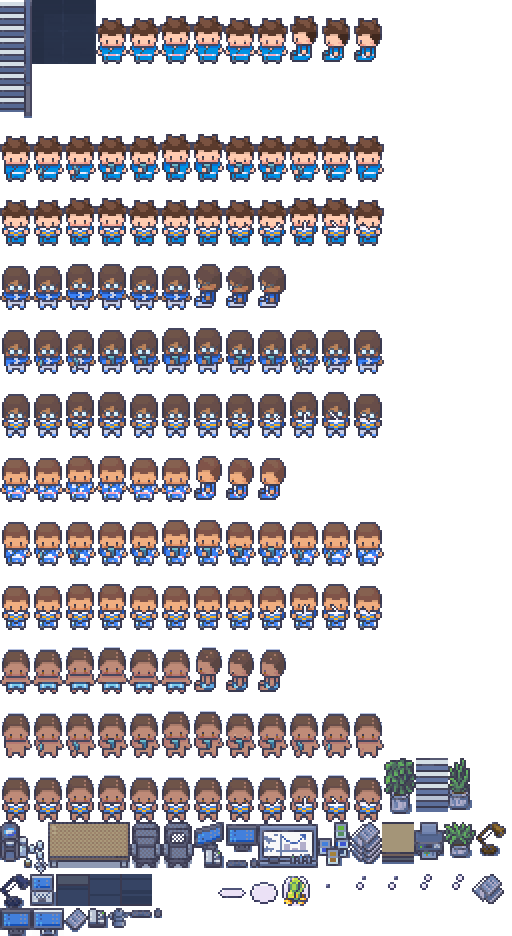
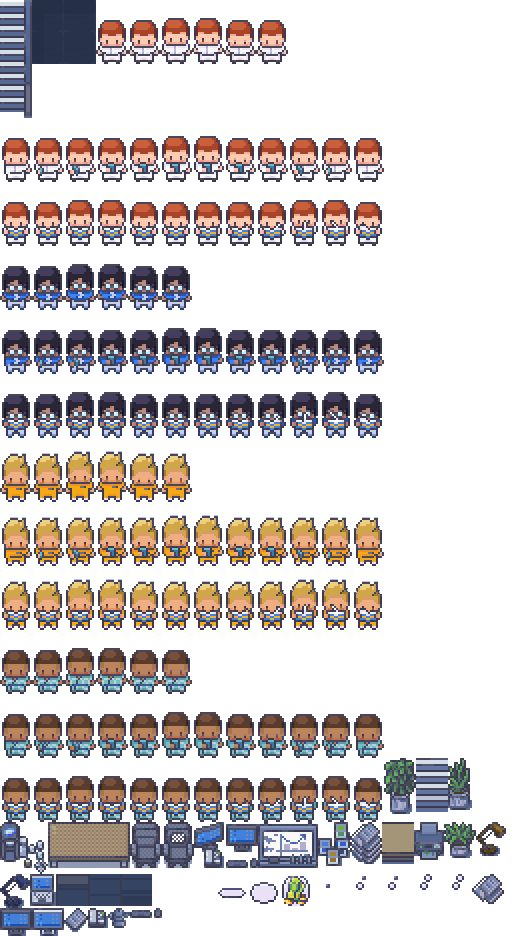
Office: four people who read as four, each at their own job
The hero row showed four near-identical heads: the same brown hair, the
same head-down sitting frames. LimeZu's sitting row only has side views,
so the person facing the camera now uses the idle frames behind the desk,
and each of the four is in the pose of their job: Ара typing at the
laptop, Веда reading the report, Эхо with the phone at his ear, Нова with
hers in her hand. Hair and outfit layers are tinted by luminance rank so
any generator style takes any colour: auburn long hair and a white blouse,
black up-do with glasses and a blue cardigan, blond crop with an orange
hoodie and a headset, brown bob with a teal top; four skin tones. The
desks carry the job's things.

Claude-Session: https://claude.ai/code/session_01Lyyr9uJyvKFspNxgDXS1Dv

diff --git a/src/office/scenes.js b/src/office/scenes.js
@@ -16,11 +16,13 @@ export const CHAPTER_HOUR = { ara: 2.25, veda: 8.5, eho: 12.1, nova: 15.5 };
 // Four weeks of the sample report, the same bars the page shows in HTML.
 const REPORT = [0.5, 0.62, 0.48, 0.9];
 
+// Ара types (idle breathing behind the laptop), Веда reads the report, Эхо
+// has the phone at his ear, Нова has hers in her hand.
 const KIT = {
-  ara: { anim: "sit", fps: 3 },
-  veda: { anim: "sit", fps: 3 },
+  ara: { anim: "idle", fps: 4 },
+  veda: { anim: "read", fps: 5 },
   eho: { anim: "phone", fps: 8, loop: [4, 9] },
-  nova: { anim: "sit", fps: 3 },
+  nova: { anim: "phone", fps: 2, loop: [2, 3] },
 };
 
 function frameIndex(kit, t, seed) {
@@ -38,8 +40,8 @@ function station(ctx, img, o) {
   const deskW = pieces.reduce((w, p) => w + SPRITES[p].w, 0);
   const cx = x + (o.personX ?? Math.floor((deskW - 32) / 2));
   // head and shoulders clear the desk; the desk hides the rest
-  const cy = y - 44;
-  sprite(ctx, img, "CHAIR", cx, cy + 20);
+  const cy = y - 58;
+  sprite(ctx, img, "CHAIR", cx, cy + 26);
   charFrame(ctx, img, id, kit.anim, frameIndex(kit, t, seed), cx, cy);
   let px = x;
   for (const p of pieces) {
@@ -87,9 +89,9 @@ export function drawHero(ctx, img, { W, H, t, progress }) {
     const x = ox + 4 + i * 60;
     const props = {
       ara: [["DESK_PHONE", 0, 6], ["LAPTOP", 24, 0]],
-      veda: [["MONITOR", 18, 2], ["PAPER_STACK", -2, 6]],
+      veda: [["PAPER_STACK", 26, 4], ["PAPERS", 2, 10], ["MUG", 40, 18]],
       eho: [["MONITOR_KB", 20, 2], ["DESK_PHONE", -2, 8]],
-      nova: [["LAPTOP", 24, 0], ["MUG", 6, 12]],
+      nova: [["LAPTOP", 22, 2], ["MUG", 4, 12]],
     }[id];
     station(ctx, img, {
       id, x, y: deskY, t, hour, seed: i, props,

diff --git a/scripts/build-staff-pack.py b/scripts/build-staff-pack.py
@@ -81,6 +81,19 @@ def map_colours(img, cmap):
     return img
 
 
+def tint_layer(img, shades):
+    """Recolour a generator layer: its three main colours, darkest to lightest,
+    become `shades` (dark, base, light). Outlines and highlights stay."""
+    img = img.convert("RGBA")
+    counts = {}
+    for r, g, b, a in img.getdata():
+        if a and (r, g, b) not in OUTLINES and (r, g, b) != (0, 0, 0):
+            counts[(r, g, b)] = counts.get((r, g, b), 0) + 1
+    main = sorted(sorted(counts, key=lambda c: -counts[c])[:3], key=lambda c: hls(c)[1])
+    cmap = {"#%02x%02x%02x" % c: shades[i] for i, c in enumerate(main)}
+    return map_colours(img, cmap)
+
+
 def rule_colours(img, rule):
     img = img.convert("RGBA")
     px = img.load()
@@ -251,8 +264,10 @@ def props():
 
 # ---------------------------------------------------------------- characters
 FW, FH = 32, 64
-# LimeZu 32x32 sheets: rows of 32x64 frames. idle/sit run right, up, left, down.
-ROWS = {"idle": 1, "sit": 4, "phone": 6, "read": 7}
+# LimeZu 32x32 sheets: rows of 32x64 frames. The idle row runs right, up,
+# left, down; the sitting row only has side views, so a person at a desk
+# facing the camera uses the idle frames and lets the desk hide the legs.
+ROWS = {"idle": 1, "phone": 6, "read": 7}
 
 
 def layer(kind, name):
@@ -265,7 +280,8 @@ def compose(spec):
         Image.open(layer("Bodies", spec["body"])).convert("RGBA"),
         Image.open(layer("Eyes", spec["eyes"])).convert("RGBA"),
         map_colours(Image.open(layer("Outfits", spec["outfit"])), spec.get("outfitMap")),
-        map_colours(Image.open(layer("Hairstyles", spec["hair"])), spec.get("hairMap")),
+        tint_layer(Image.open(layer("Hairstyles", spec["hair"])), spec["hairTint"]) if spec.get("hairTint")
+        else map_colours(Image.open(layer("Hairstyles", spec["hair"])), spec.get("hairMap")),
     ]
     if spec.get("accessory"):
         layers.append(Image.open(layer("Accessories", spec["accessory"])).convert("RGBA"))
@@ -305,20 +321,24 @@ def headset(fr):
     return fr
 
 
+# Four people who read as four at a glance: different hair, clothes, skin,
+# and each in the pose of their own job. Hair and outfit layers are tinted by
+# luminance rank so any LimeZu style can take any colour.
 PEOPLE = {
-    # Ара: reception. Long chestnut hair, pale jacket.
-    "ara": {"body": "Body_32x32_02", "eyes": "Eyes_32x32_01", "outfit": "Outfit_25_32x32_01", "hair": "Hairstyle_21_32x32_07",
-            "outfitMap": {"#fbabc6": PAPER["hi"], "#dd71a3": PAPER["lo"]},
-            "hairMap": {"#647e99": HAIR_DARK["light"], "#566279": HAIR_DARK["base"], "#535662": HAIR_DARK["shade"]}},
-    # Веда: analyst. Hair up, glasses, brand-blue shirt.
-    "veda": {"body": "Body_32x32_04", "eyes": "Eyes_32x32_04", "outfit": "Outfit_21_32x32_01", "hair": "Hairstyle_18_32x32_04",
+    # Ара: reception. Long auburn hair, white blouse, at the laptop.
+    "ara": {"body": "Body_32x32_02", "eyes": "Eyes_32x32_01", "outfit": "Outfit_08_32x32_01", "hair": "Hairstyle_12_32x32_04",
+            "hairTint": ("#7A2E1E", "#A8442A", "#C9603C")},
+    # Веда: analyst. Black hair up, glasses, brand-blue cardigan, reading the report.
+    "veda": {"body": "Body_32x32_01", "eyes": "Eyes_32x32_04", "outfit": "Outfit_21_32x32_01", "hair": "Hairstyle_18_32x32_04",
              "accessory": "Accessory_15_Glasses_32x32_01",
+             "hairTint": ("#1B1826", "#2A2638", "#443E5C"),
              "outfitMap": {"#645d9a": BRAND["shade"], "#76689e": BRAND["base"], "#8d6ea7": BRAND["light"], "#8e99c8": BRAND["dark"]}},
-    # Нова: customer care. Short brown hair, brand-blue top.
-    "nova": {"body": "Body_32x32_07", "eyes": "Eyes_32x32_01", "outfit": "Outfit_24_32x32_01", "hair": "Hairstyle_12_32x32_03",
-             "outfitMap": {"#fbabc6": PAPER["hi"], "#eb8fb3": PAPER["lo"], "#0092e3": BRAND["base"], "#0970d4": BRAND["shade"], "#96d0f0": BRAND["light"]}},
-    # Эхо: phone operator. Short crop, light hoodie, headset.
-    "eho": {"body": "Body_32x32_01", "eyes": "Eyes_32x32_05", "outfit": "Outfit_31_32x32_01", "hair": "Hairstyle_06_32x32_04", "headset": True},
+    # Эхо: phone operator. Blond crop, orange hoodie, headset, on the phone.
+    "eho": {"body": "Body_32x32_07", "eyes": "Eyes_32x32_05", "outfit": "Outfit_16_32x32_01", "hair": "Hairstyle_26_32x32_02",
+            "hairTint": ("#A67B2C", "#D1A64A", "#EED07C"), "headset": True},
+    # Нова: customer care. Dark brown bob, teal top, phone in hand.
+    "nova": {"body": "Body_32x32_04", "eyes": "Eyes_32x32_01", "outfit": "Outfit_23_32x32_03", "hair": "Hairstyle_20_32x32_03",
+             "hairTint": ("#3B261C", "#5A3B2C", "#75503C")},
 }
 
 
@@ -331,8 +351,6 @@ def characters():
         for aname, row in ROWS.items():
             if aname == "idle":
                 frames = [frame(sheet, row, c) for c in range(18, 24)]  # facing down
-            elif aname == "sit":
-                frames = [frame(sheet, row, c) for c in range(9, 12)]  # facing down
             elif aname == "phone":
                 frames = []
                 for c in range(12):
